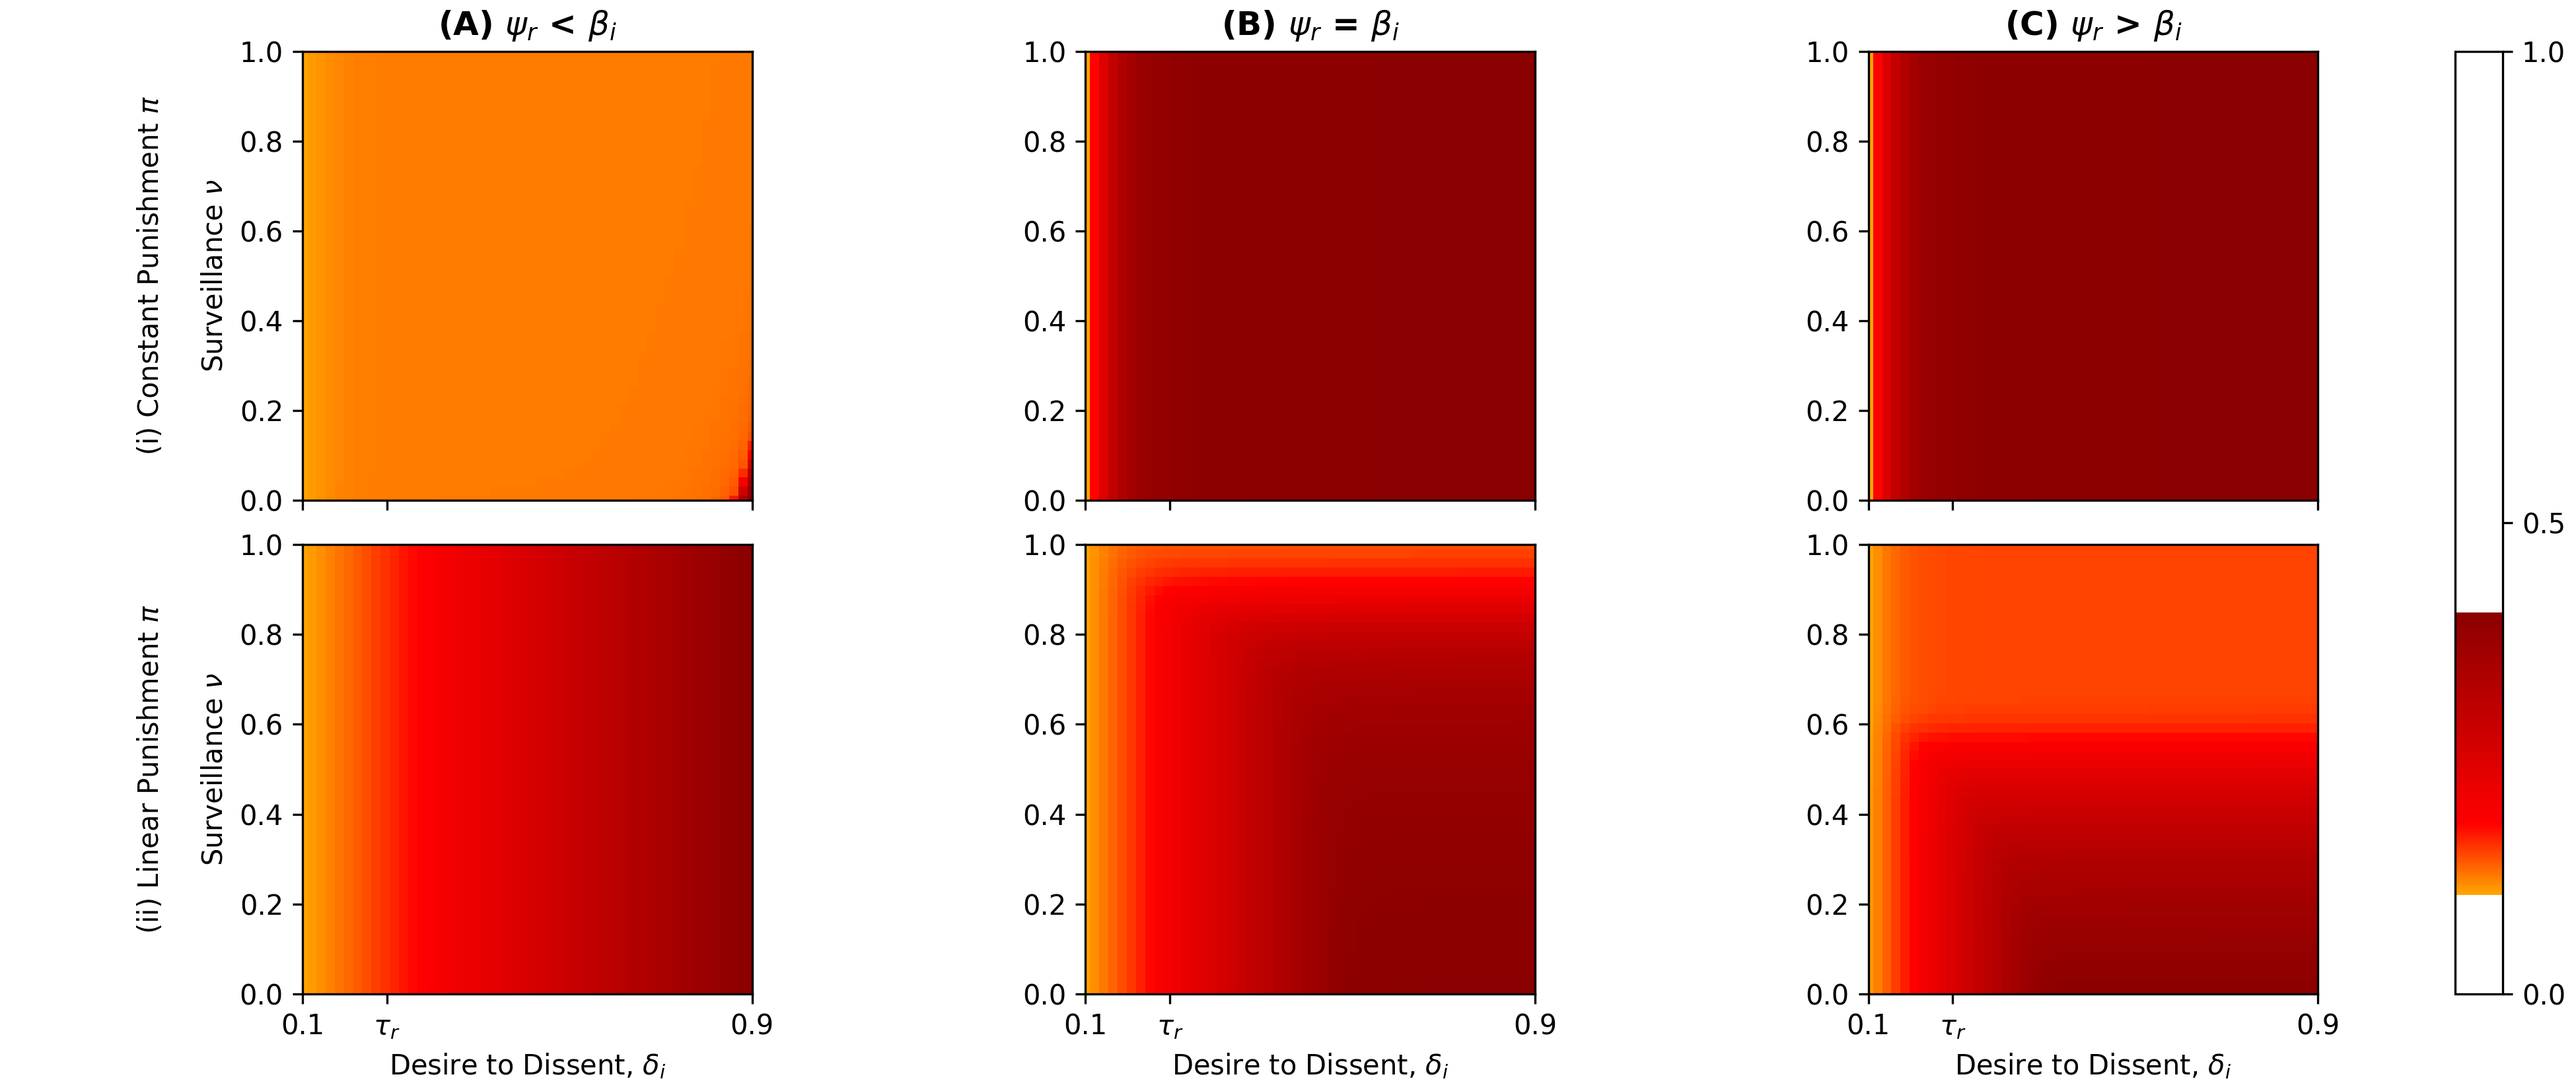
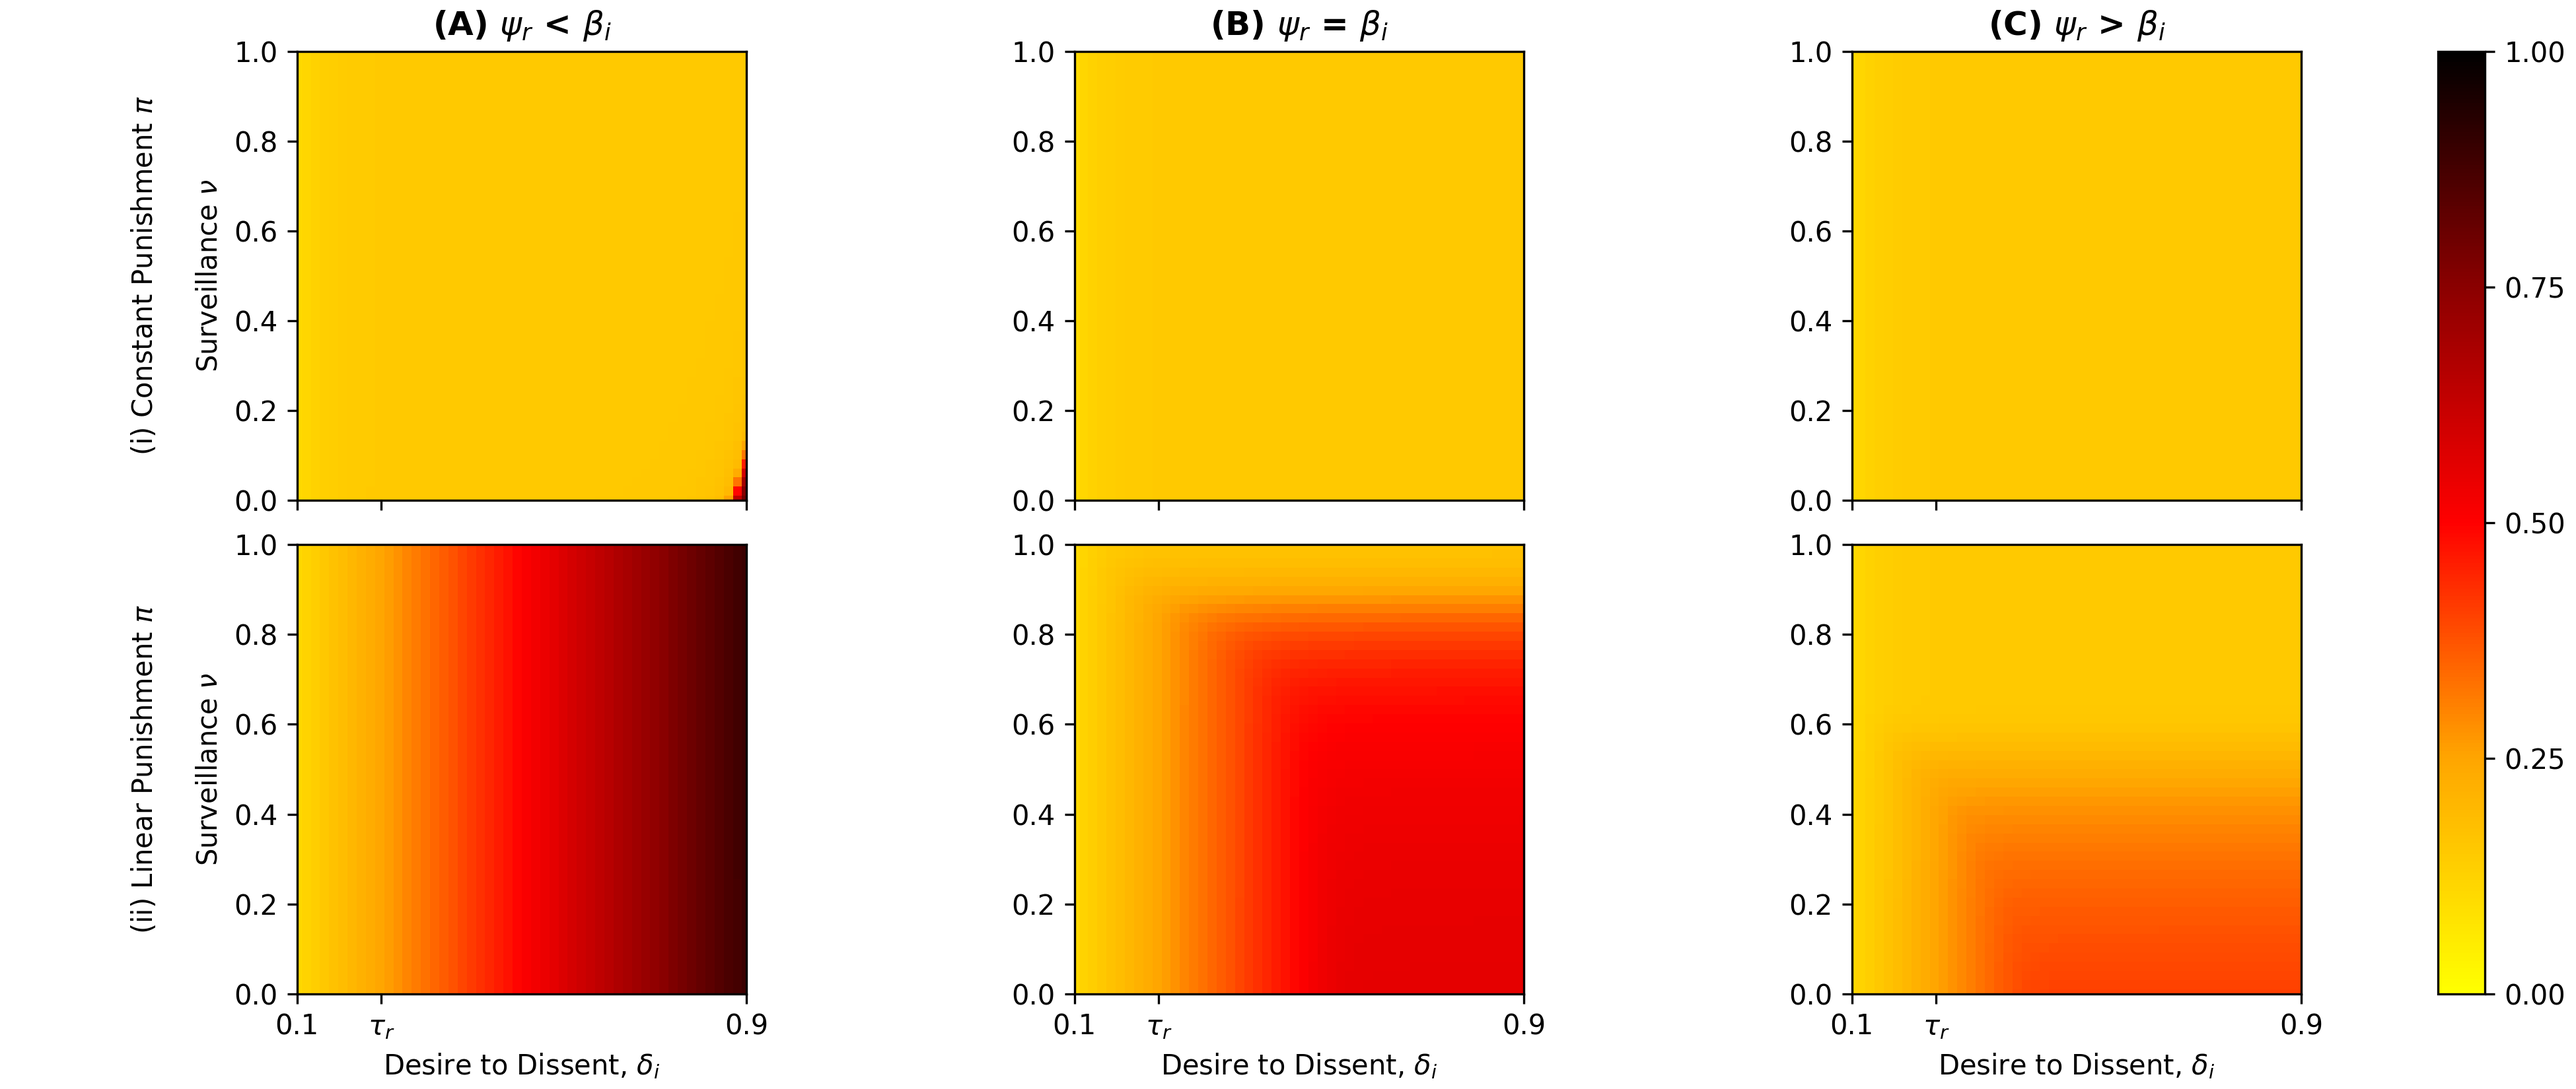
d2a action & desire phase diagram

diff --git a/other_code/d2a_thesis.py b/other_code/d2a_thesis.py
@@ -86,7 +86,7 @@ if __name__ == "__main__":
               r'(B) $\psi_r$ = $\beta_i$',
               r'(C) $\psi_r$ > $\beta_i$']
 
-    diagram = 'desire' # ['action', 'desire']
+    diagram = 'action' # ['action', 'desire']
 
     # Plot the phase diagrams for psi and punishment function.
     for i, (psi, label) in enumerate(zip(psi_array, labels)):
